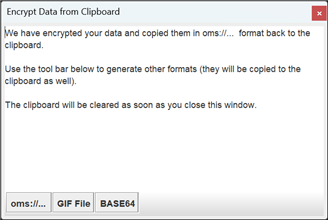
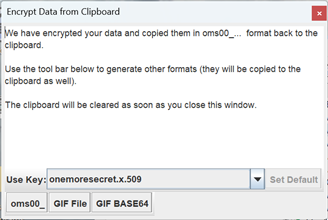
bugfixes

diff --git a/omscompanion/src/main/java/omscompanion/NewItem.java b/omscompanion/src/main/java/omscompanion/NewItem.java
@@ -75,6 +75,7 @@ public class NewItem extends JFrame implements WindowListener {
 		panel.setLayout(new BoxLayout(panel, BoxLayout.Y_AXIS));
 
 		JTextArea txtrUseTheTool = new JTextArea();
+		txtrUseTheTool.setEditable(false);
 		txtrUseTheTool.setWrapStyleWord(true);
 		txtrUseTheTool.setLineWrap(true);
 		txtrUseTheTool.setText("We have encrypted your data and copied them in " + MessageComposer.OMS_PREFIX
@@ -105,8 +106,6 @@ public class NewItem extends JFrame implements WindowListener {
 		} else {
 			comboUseKey.setSelectedItem(defaultKey);
 		}
-
-		comboUseKey.setEnabled(publicKeys.size() > 1);
 
 		comboUseKey.addItemListener(e -> onKeySelected(comboUseKey, s));
 
